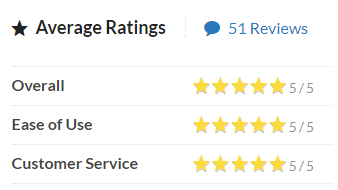
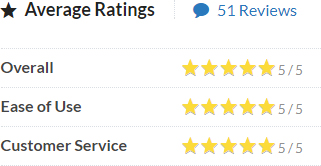
review page changes

diff --git a/source/css/allPage_minified.css b/source/css/allPage_minified.css
@@ -430,6 +430,8 @@ address,blockquote .small,blockquote footer,blockquote small,dd,dt,pre{line-heig
 	.rating-block-left {min-height: 180px !important; padding-top: 12px !important; display: inline-grid !important;}
 	.g2 .rating-block-left {padding-top: 30px !important;}
 	.fb .rating-block-left {padding-top: 25px !important;}
+	.rating-block-right {width: 100% !important;}
+	.rating-block-left {border-right: none !important;}
 
 }
 @media (min-width: 0px) and (max-width: 450px){
@@ -19185,7 +19187,7 @@ i.zmdi.zmdi-twitter-box {
     /* width: 52%; */
     float: none;
 	margin: 25px auto 0px;
-	max-width: 572px;
+	max-width: 605px;
 }
 .rating-block-left {
     background: #2979bd;
@@ -19193,11 +19195,13 @@ i.zmdi.zmdi-twitter-box {
 	float: left;
 	min-height: 238px;
 	width: 235px;
+	border-right: 1px solid #d9dee1;
 }
 .rating-block-right {
     display: table;
 	float: left;
-	min-height: 220px;
+	min-height: 230px;
+	width: 368px;
 }
 .rating-icons {
     float: left;
@@ -19242,7 +19246,8 @@ i.zmdi.zmdi-twitter-box {
 .g2 .rating-block-right {
     display: table;
     float: left;
-    min-height: 309px;
+	min-height: 309px;
+	width: 368px;
 }
 .section-2-heading.g2 {
 	padding-top: 60px;
@@ -19262,7 +19267,8 @@ i.zmdi.zmdi-twitter-box {
     margin-top: 60px;
 }
 .fb .rating-block-right {
-    min-height: 247px;
+	min-height: 247px;
+	width: 308px;
 }
 .am {
 	background: #f3f8fb;
@@ -19312,4 +19318,7 @@ img.scrollimg1.wo {
 }
 .am .col-md-3.pull-right {
     margin-top: 17px;
+}
+.fb .rating-block-outer {
+    max-width: 545px;
 }
